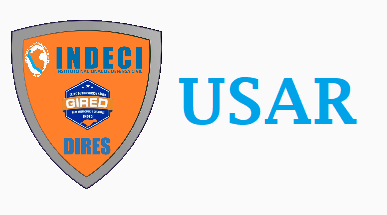
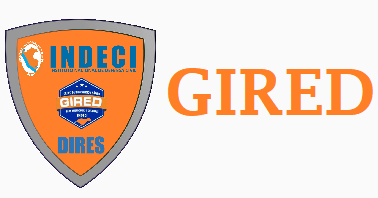
asd

Changed region(s): [[0.0, 0.0909, 0.9894, 0.9697]]

diff --git a/src/app/shared/components/sidebar/sidebar.component.html b/src/app/shared/components/sidebar/sidebar.component.html
@@ -4,7 +4,7 @@
         <img class="img-fluid for-light m-l-80" style="height: 150px" src="assets/images/login/logo-simex.svg" alt="">
         <img class="img-fluid for-dark" src="assets/images/login/logo-simex.svg" alt="">
     </a> -->
-    <h5>CERTIFICACIONES </h5>
+    <h5>GIRED </h5>
     <div class="back-btn" (click)="sidebarToggle()">
         <i class="fa fa-angle-left"></i>
     </div>
